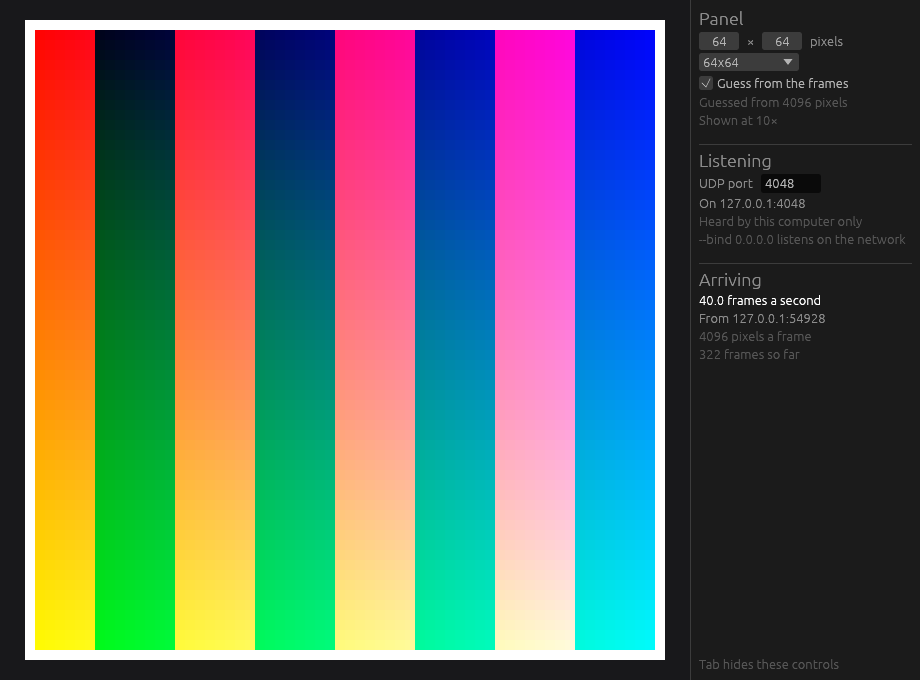
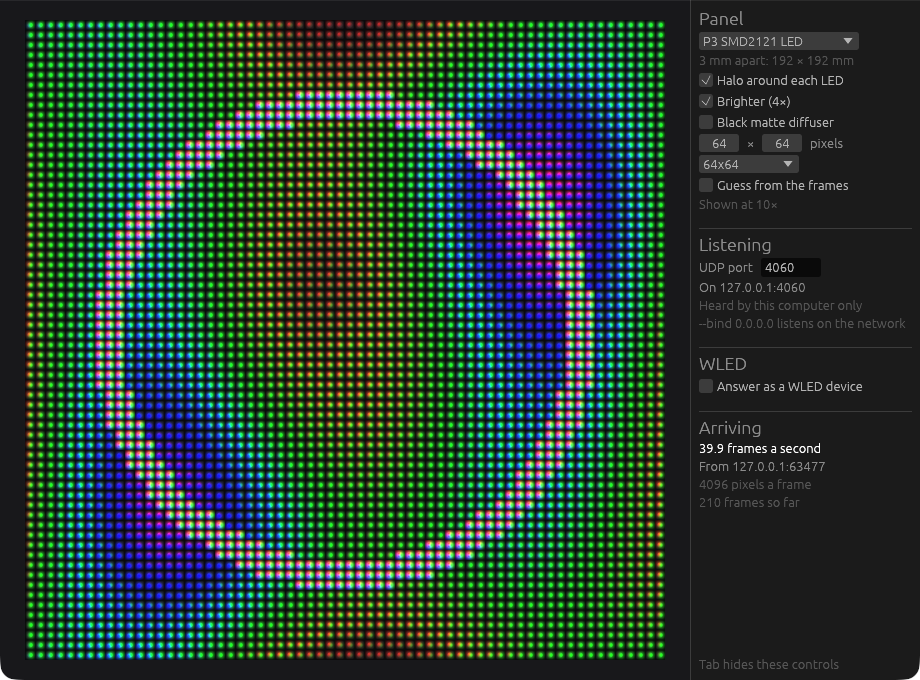
Show a P3 LED panel in the README's picture

diff --git a/README.md b/README.md
@@ -5,7 +5,7 @@ protocol that [WLED](https://kno.wled.ge) devices accept over UDP, and
 shows the frames it receives in a window: what a program would put on an
 LED matrix, before the matrix is on the desk.
 
-![A 64×64 frame in the window, with the controls beside it](docs/window.png)
+![A 64×64 frame shown as a P3 panel of SMD2121 LEDs, with the controls beside it](docs/window.png)
 
 - Receives DDP on UDP port 4048, frames of any number of packets.
 - Shows the panel as plain square pixels, or as an LED matrix (P3 with
